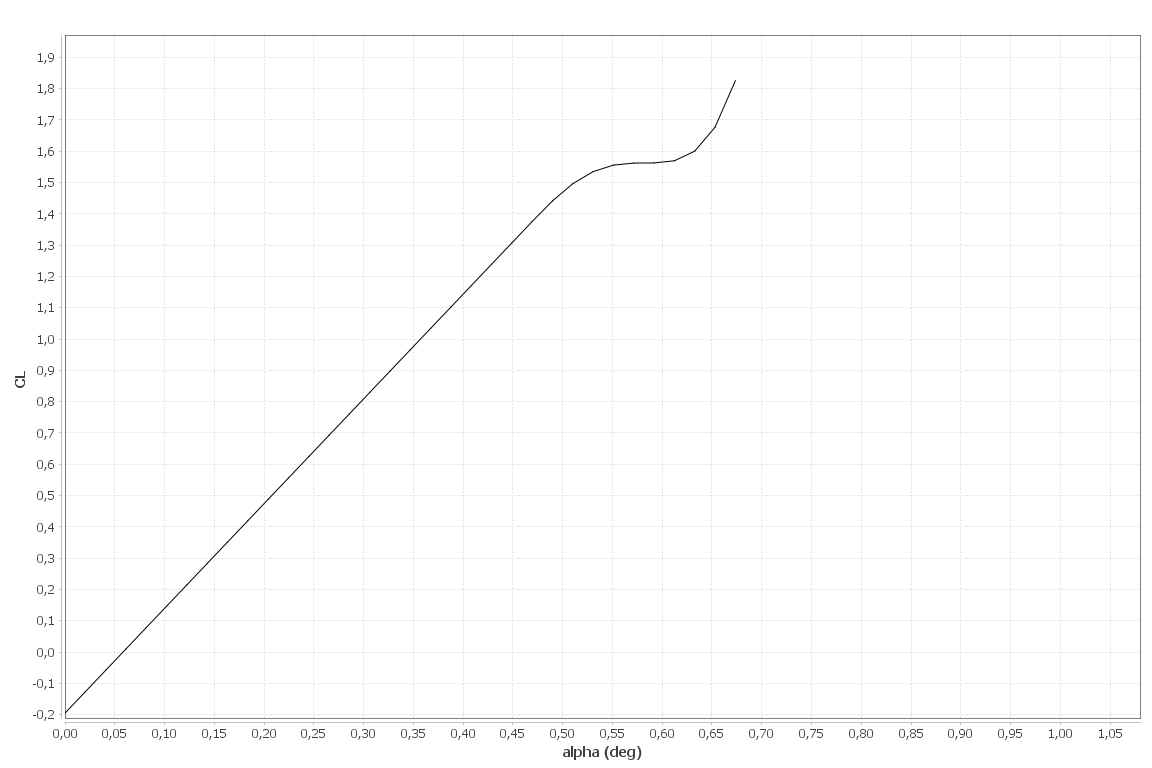
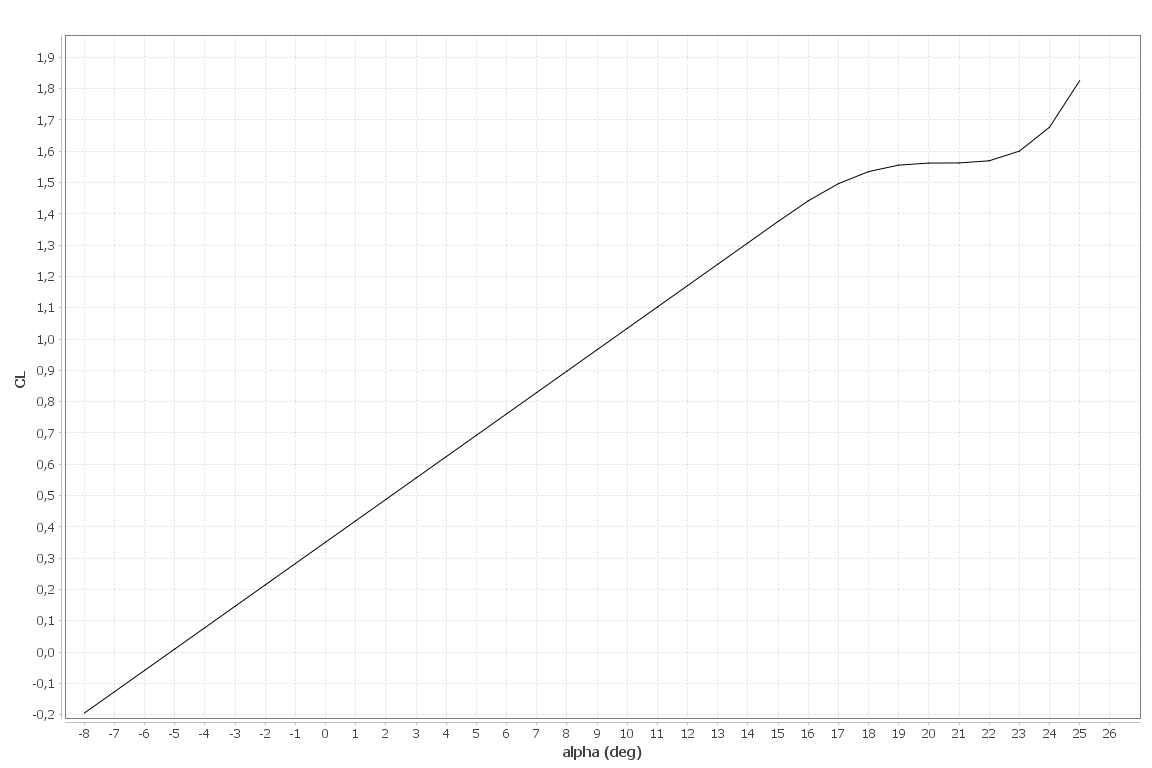
More work on ACAerodynamicAndStabilityManager, plot

diff --git a/JPADCore_v2/src/analyses/ACAerodynamicAndStabilityManagerV.java b/JPADCore_v2/src/analyses/ACAerodynamicAndStabilityManagerV.java
@@ -5389,6 +5389,9 @@ public class ACAerodynamicAndStabilityManagerV {
 		List<Double[]> xVectorMatrix = new ArrayList<Double[]>();
 		List<Double[]> yVectorMatxrix = new ArrayList<Double[]>();
 		List<String> legend  = new ArrayList<>(); 
+		double[][] xMatrix;
+		double[][] yMatrix;
+		String[] legendString;
 		
 		List<Double> xVector = new ArrayList<Double>();
 		List<Double> yVector = new ArrayList<Double>();
@@ -5420,64 +5423,116 @@ public class ACAerodynamicAndStabilityManagerV {
 //		WING_MOMENT_DISTRIBUTION;
 		
 		// LIFT CURVE
-		if(_theAerodynamicBuilderInterface.getPlotList().get(ComponentEnum.WING).contains(AerodynamicAndStabilityPlotEnum.WING_LIFT_CURVE_CLEAN)) {
-			
-			xVector = new ArrayList<Double>();
-			yVector = new ArrayList<Double>();
-			
-			//xVector= MyArrayUtils.convertDoubleArrayToListDouble(MyArrayUtils.convertFromDoubleToPrimitive(_liftingSurfaceAerodynamicManagers.get(ComponentEnum.WING).getEtaStationDistribution()));
-			xVector= MyArrayUtils.convertDoubleArrayToListDouble(MyArrayUtils.convertFromDoubleToPrimitive(_liftingSurfaceAerodynamicManagers.get(ComponentEnum.WING).getEtaStationDistribution()));
-			yVector =MyArrayUtils.convertDoubleArrayToListDouble(_liftingSurfaceAerodynamicManagers.get(ComponentEnum.WING).getLiftCoefficient3DCurve().get(
-					_theAerodynamicBuilderInterface.getComponentTaskList()
-							.get(ComponentEnum.WING)
-							.get(AerodynamicAndStabilityEnum.LIFT_CURVE_3D)));
-			
-			MyChartToFileUtils.plotNoLegend(
-					MyArrayUtils.convertToDoublePrimitive(MyArrayUtils.convertListOfDoubleToDoubleArray(xVector)),
-					MyArrayUtils.convertToDoublePrimitive(yVector),
-					null, 
-					null, 
-					null, 
-					null, 
-					"alpha",
-					"CL",
-					"deg", 
-					"",
-					wingPlotFolderPath,
-					"Lift_Coefficient_Curve",
-					false
-					);
+		if (_theAerodynamicBuilderInterface.getCurrentCondition() == ConditionEnum.CRUISE || 
+				_theAerodynamicBuilderInterface.getCurrentCondition() == ConditionEnum.CLIMB ) {
+			if(_theAerodynamicBuilderInterface.getPlotList().get(ComponentEnum.WING).contains(AerodynamicAndStabilityPlotEnum.WING_LIFT_CURVE_CLEAN)) {
+
+				xVector = new ArrayList<Double>();
+				yVector = new ArrayList<Double>();
+
+				//xVector= MyArrayUtils.convertDoubleArrayToListDouble(MyArrayUtils.convertFromDoubleToPrimitive(_liftingSurfaceAerodynamicManagers.get(ComponentEnum.WING).getEtaStationDistribution()));
+				xVector = MyArrayUtils.convertDoubleArrayToListDouble(MyArrayUtils.convertListOfAmountToDoubleArray(_alphaWingList));
+				yVector = MyArrayUtils.convertDoubleArrayToListDouble(_liftingSurfaceAerodynamicManagers.get(ComponentEnum.WING).getLiftCoefficient3DCurve().get(
+						_theAerodynamicBuilderInterface.getComponentTaskList()
+						.get(ComponentEnum.WING)
+						.get(AerodynamicAndStabilityEnum.LIFT_CURVE_3D)));
+
+				MyChartToFileUtils.plotNoLegend(
+						MyArrayUtils.convertToDoublePrimitive(MyArrayUtils.convertListOfDoubleToDoubleArray(xVector)),
+						MyArrayUtils.convertToDoublePrimitive(yVector),
+						null, 
+						null, 
+						null, 
+						null, 
+						"alpha",
+						"CL",
+						"deg", 
+						"",
+						wingPlotFolderPath,
+						"Lift_Coefficient_Curve",
+						false
+						);
+			}
 		}
 		
-		// STALL PATH 
-		if(_theAerodynamicBuilderInterface.getPlotList().get(ComponentEnum.WING).contains(AerodynamicAndStabilityPlotEnum.WING_STALL_PATH)) {
+		if (_theAerodynamicBuilderInterface.getCurrentCondition() == ConditionEnum.TAKE_OFF || 
+				_theAerodynamicBuilderInterface.getCurrentCondition() == ConditionEnum.LANDING ) {
 			
 			xVectorMatrix = new ArrayList<Double[]>();
 			yVectorMatxrix = new ArrayList<Double[]>();
 			legend  = new ArrayList<>(); 
 			
-			xVector= MyArrayUtils.convertDoubleArrayToListDouble(MyArrayUtils.convertFromDoubleToPrimitive(_liftingSurfaceAerodynamicManagers.get(ComponentEnum.WING).getEtaStationDistribution()));
-			yVector =MyArrayUtils.convertDoubleArrayToListDouble(_liftingSurfaceAerodynamicManagers.get(ComponentEnum.WING).getLiftCoefficient3DCurve().get(
+			xVectorMatrix.add(MyArrayUtils.convertListOfAmountToDoubleArray(_alphaWingList));
+			xVectorMatrix.add(_liftingSurfaceAerodynamicManagers.get(ComponentEnum.WING).getAlphaArrayPlotHighLift());
+			yVectorMatxrix.add(_liftingSurfaceAerodynamicManagers.get(ComponentEnum.WING).getLiftCoefficient3DCurve().get(
 					_theAerodynamicBuilderInterface.getComponentTaskList()
 							.get(ComponentEnum.WING)
 							.get(AerodynamicAndStabilityEnum.LIFT_CURVE_3D)));
+			yVectorMatxrix.add(_liftingSurfaceAerodynamicManagers.get(ComponentEnum.WING).getLiftCoefficient3DCurveHighLift().get(
+					_theAerodynamicBuilderInterface.getComponentTaskList()
+							.get(ComponentEnum.WING)
+							.get(AerodynamicAndStabilityEnum.HIGH_LIFT_CURVE_3D)));
+
+			legend.add("Clean configuration");
+			legend.add("Configuration with high lift devices");
 			
-			MyChartToFileUtils.plotNoLegend(
-					MyArrayUtils.convertToDoublePrimitive(MyArrayUtils.convertListOfDoubleToDoubleArray(xVector)),
-					MyArrayUtils.convertToDoublePrimitive(yVector),
+
+			xMatrix = new double[xVectorMatrix.size()][xVectorMatrix.get(0).length];
+			yMatrix = new double[xVectorMatrix.size()][xVectorMatrix.get(0).length];
+			legendString = new String[xVectorMatrix.size()];
+			
+			for(int i=0; i <xVectorMatrix.size(); i++){
+				xMatrix[i] = MyArrayUtils.convertToDoublePrimitive(xVectorMatrix.get(i));
+				yMatrix[i] = MyArrayUtils.convertToDoublePrimitive(yVectorMatxrix.get(i));
+				legendString [i] = legend.get(i);
+			}
+			
+			MyChartToFileUtils.plotNOCSV(
+					xMatrix,
+					yMatrix, 
 					null, 
 					null, 
 					null, 
-					null, 
-					"alpha",
-					"CL",
-					"deg", 
-					"",
+					null,
+					"eta", 
+					"C_l",
+					"", 
+					"", 
+					legendString, 
 					wingPlotFolderPath,
-					"Lift_Coefficient_Curve",
-					false
-					);
+					"Lift_Coefficient_distribution");
+
 		}
+		
+//		// STALL PATH 
+//		if(_theAerodynamicBuilderInterface.getPlotList().get(ComponentEnum.WING).contains(AerodynamicAndStabilityPlotEnum.WING_STALL_PATH)) {
+//			
+//			xVectorMatrix = new ArrayList<Double[]>();
+//			yVectorMatxrix = new ArrayList<Double[]>();
+//			legend  = new ArrayList<>(); 
+//			
+//			xVector= MyArrayUtils.convertDoubleArrayToListDouble(MyArrayUtils.convertFromDoubleToPrimitive(_liftingSurfaceAerodynamicManagers.get(ComponentEnum.WING).getEtaStationDistribution()));
+//			yVector =MyArrayUtils.convertDoubleArrayToListDouble(_liftingSurfaceAerodynamicManagers.get(ComponentEnum.WING).getLiftCoefficient3DCurve().get(
+//					_theAerodynamicBuilderInterface.getComponentTaskList()
+//							.get(ComponentEnum.WING)
+//							.get(AerodynamicAndStabilityEnum.LIFT_CURVE_3D)));
+//			
+//			MyChartToFileUtils.plotNoLegend(
+//					MyArrayUtils.convertToDoublePrimitive(MyArrayUtils.convertListOfDoubleToDoubleArray(xVector)),
+//					MyArrayUtils.convertToDoublePrimitive(yVector),
+//					null, 
+//					null, 
+//					null, 
+//					null, 
+//					"alpha",
+//					"CL",
+//					"deg", 
+//					"",
+//					wingPlotFolderPath,
+//					"Lift_Coefficient_Curve",
+//					false
+//					);
+//		}
 //			
 //			MyChartToFileUtils.plotNOCSV(
 //					xVector,

diff --git a/JPADCore_v2/src/analyses/ACAerodynamicAndStabilityManagerM.java b/JPADCore_v2/src/analyses/ACAerodynamicAndStabilityManagerM.java
@@ -5389,6 +5389,9 @@ public class ACAerodynamicAndStabilityManagerM {
 		List<Double[]> xVectorMatrix = new ArrayList<Double[]>();
 		List<Double[]> yVectorMatxrix = new ArrayList<Double[]>();
 		List<String> legend  = new ArrayList<>(); 
+		double[][] xMatrix;
+		double[][] yMatrix;
+		String[] legendString;
 		
 		List<Double> xVector = new ArrayList<Double>();
 		List<Double> yVector = new ArrayList<Double>();
@@ -5419,81 +5422,94 @@ public class ACAerodynamicAndStabilityManagerM {
 //		WING_MOMENT_CURVE_CLEAN,
 //		WING_MOMENT_DISTRIBUTION;
 		
+//-----------------------------------------------------------------------
+// COPY FROM HERE -------------------------------------------------------
+//-----------------------------------------------------------------------		
 		// LIFT CURVE
-		if(_theAerodynamicBuilderInterface.getPlotList().get(ComponentEnum.WING).contains(AerodynamicAndStabilityPlotEnum.WING_LIFT_CURVE_CLEAN)) {
-			
-			xVector = new ArrayList<Double>();
-			yVector = new ArrayList<Double>();
-			
-			//xVector= MyArrayUtils.convertDoubleArrayToListDouble(MyArrayUtils.convertFromDoubleToPrimitive(_liftingSurfaceAerodynamicManagers.get(ComponentEnum.WING).getEtaStationDistribution()));
-			xVector= MyArrayUtils.convertDoubleArrayToListDouble(MyArrayUtils.convertFromDoubleToPrimitive(_liftingSurfaceAerodynamicManagers.get(ComponentEnum.WING).getEtaStationDistribution()));
-			yVector =MyArrayUtils.convertDoubleArrayToListDouble(_liftingSurfaceAerodynamicManagers.get(ComponentEnum.WING).getLiftCoefficient3DCurve().get(
-					_theAerodynamicBuilderInterface.getComponentTaskList()
-							.get(ComponentEnum.WING)
-							.get(AerodynamicAndStabilityEnum.LIFT_CURVE_3D)));
-			
-			MyChartToFileUtils.plotNoLegend(
-					MyArrayUtils.convertToDoublePrimitive(MyArrayUtils.convertListOfDoubleToDoubleArray(xVector)),
-					MyArrayUtils.convertToDoublePrimitive(yVector),
-					null, 
-					null, 
-					null, 
-					null, 
-					"alpha",
-					"CL",
-					"deg", 
-					"",
-					wingPlotFolderPath,
-					"Lift_Coefficient_Curve",
-					false
-					);
+		if (_theAerodynamicBuilderInterface.getCurrentCondition() == ConditionEnum.CRUISE || 
+				_theAerodynamicBuilderInterface.getCurrentCondition() == ConditionEnum.CLIMB ) {
+			if(_theAerodynamicBuilderInterface.getPlotList().get(ComponentEnum.WING).contains(AerodynamicAndStabilityPlotEnum.WING_LIFT_CURVE_CLEAN)) {
+
+				xVector = new ArrayList<Double>();
+				yVector = new ArrayList<Double>();
+
+				//xVector= MyArrayUtils.convertDoubleArrayToListDouble(MyArrayUtils.convertFromDoubleToPrimitive(_liftingSurfaceAerodynamicManagers.get(ComponentEnum.WING).getEtaStationDistribution()));
+				xVector = MyArrayUtils.convertDoubleArrayToListDouble(MyArrayUtils.convertListOfAmountToDoubleArray(_alphaWingList));
+				yVector = MyArrayUtils.convertDoubleArrayToListDouble(_liftingSurfaceAerodynamicManagers.get(ComponentEnum.WING).getLiftCoefficient3DCurve().get(
+						_theAerodynamicBuilderInterface.getComponentTaskList()
+						.get(ComponentEnum.WING)
+						.get(AerodynamicAndStabilityEnum.LIFT_CURVE_3D)));
+
+				MyChartToFileUtils.plotNoLegend(
+						MyArrayUtils.convertToDoublePrimitive(MyArrayUtils.convertListOfDoubleToDoubleArray(xVector)),
+						MyArrayUtils.convertToDoublePrimitive(yVector),
+						null, 
+						null, 
+						null, 
+						null, 
+						"alpha",
+						"CL",
+						"deg", 
+						"",
+						wingPlotFolderPath,
+						"Lift_Coefficient_Curve",
+						false
+						);
+			}
 		}
 		
-		// STALL PATH 
-		if(_theAerodynamicBuilderInterface.getPlotList().get(ComponentEnum.WING).contains(AerodynamicAndStabilityPlotEnum.WING_STALL_PATH)) {
+		if (_theAerodynamicBuilderInterface.getCurrentCondition() == ConditionEnum.TAKE_OFF || 
+				_theAerodynamicBuilderInterface.getCurrentCondition() == ConditionEnum.LANDING ) {
 			
 			xVectorMatrix = new ArrayList<Double[]>();
 			yVectorMatxrix = new ArrayList<Double[]>();
 			legend  = new ArrayList<>(); 
 			
-			xVector= MyArrayUtils.convertDoubleArrayToListDouble(MyArrayUtils.convertFromDoubleToPrimitive(_liftingSurfaceAerodynamicManagers.get(ComponentEnum.WING).getEtaStationDistribution()));
-			yVector =MyArrayUtils.convertDoubleArrayToListDouble(_liftingSurfaceAerodynamicManagers.get(ComponentEnum.WING).getLiftCoefficient3DCurve().get(
+			xVectorMatrix.add(MyArrayUtils.convertListOfAmountToDoubleArray(_alphaWingList));
+			xVectorMatrix.add(_liftingSurfaceAerodynamicManagers.get(ComponentEnum.WING).getAlphaArrayPlotHighLift());
+			yVectorMatxrix.add(_liftingSurfaceAerodynamicManagers.get(ComponentEnum.WING).getLiftCoefficient3DCurve().get(
 					_theAerodynamicBuilderInterface.getComponentTaskList()
 							.get(ComponentEnum.WING)
 							.get(AerodynamicAndStabilityEnum.LIFT_CURVE_3D)));
+			yVectorMatxrix.add(_liftingSurfaceAerodynamicManagers.get(ComponentEnum.WING).getLiftCoefficient3DCurveHighLift().get(
+					_theAerodynamicBuilderInterface.getComponentTaskList()
+							.get(ComponentEnum.WING)
+							.get(AerodynamicAndStabilityEnum.HIGH_LIFT_CURVE_3D)));
+
+			legend.add("Clean configuration");
+			legend.add("Configuration with high lift devices");
 			
-			MyChartToFileUtils.plotNoLegend(
-					MyArrayUtils.convertToDoublePrimitive(MyArrayUtils.convertListOfDoubleToDoubleArray(xVector)),
-					MyArrayUtils.convertToDoublePrimitive(yVector),
+
+			xMatrix = new double[xVectorMatrix.size()][xVectorMatrix.get(0).length];
+			yMatrix = new double[xVectorMatrix.size()][xVectorMatrix.get(0).length];
+			legendString = new String[xVectorMatrix.size()];
+			
+			for(int i=0; i <xVectorMatrix.size(); i++){
+				xMatrix[i] = MyArrayUtils.convertToDoublePrimitive(xVectorMatrix.get(i));
+				yMatrix[i] = MyArrayUtils.convertToDoublePrimitive(yVectorMatxrix.get(i));
+				legendString [i] = legend.get(i);
+			}
+			
+			MyChartToFileUtils.plotNOCSV(
+					xMatrix,
+					yMatrix, 
 					null, 
 					null, 
 					null, 
-					null, 
-					"alpha",
-					"CL",
-					"deg", 
-					"",
+					null,
+					"eta", 
+					"C_l",
+					"", 
+					"", 
+					legendString, 
 					wingPlotFolderPath,
-					"Lift_Coefficient_Curve",
-					false
-					);
+					"Lift_Coefficient_distribution");
+
 		}
-//			
-//			MyChartToFileUtils.plotNOCSV(
-//					xVector,
-//					yVector, 
-//					0., 
-//					1., 
-//					null, 
-//					null,
-//					"eta", 
-//					"C_l",
-//					"", 
-//					"", 
-//					legend, 
-//					outputChartPath,
-//					"Lift_Coefficient_distribution");
-//
+		
+//-----------------------------------------------------------------------
+// TO HERE  -------------------------------------------------------
+//-----------------------------------------------------------------------
 	}
 	
 	public void calculate(String resultsFolderPath) {
